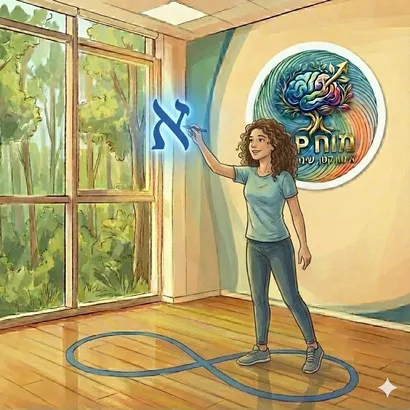
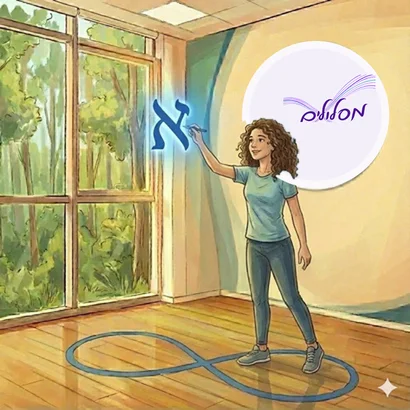
מוח UP נקרא מסלולים: השם, הלוגו של מסלולים, והלוגו על הקיר באיורים
Claude-Session: https://claude.ai/code/session_01BDkU3cUZLBtuGa5TKA5z9B

Changed region(s): [[0.5854, 0.0878, 0.9659, 0.4683]]

diff --git a/public/site-data.js b/public/site-data.js
@@ -18,13 +18,13 @@ window.YS_DEFAULT = {
       id: 'home', home: true, title: 'בית', nav: 'בית', intro: '', items: []
     },
     {
-      id: 'neuro', title: 'תירגול נוירו-קוגניטיבי', nav: 'תירגול נוירו-קוגניטיבי',
-      sub: 'לפרוץ את גבולות היכולת',
+      id: 'neuro', title: 'מסלולים', nav: 'מסלולים',
+      sub: 'תירגול נוירו-קוגניטיבי · לפרוץ את גבולות היכולת',
       summary: 'אימון הרותם את מירב היכולות כדי לעצב ולשכלל מיומנויות קוגניטיביות ופיזיות',
-      icon: { src: '/img/icon-neuro.webp', name: 'מוח UP' },
+      icon: { src: '/img/maslulim.webp', name: 'מסלולים' },
       intro: 'ייעוץ מדעי: פרופסור דני ברנס, חוקר מוח, מומחה בזיכרון ולמידה',
       items: [
-        { id: 'n-what', type: 'text', title: 'מהו אימון נוירו-קוגניטיבי?',
+        { id: 'n-what', type: 'text', title: 'מסלולים: מהו אימון נוירו-קוגניטיבי?',
           body: 'המוח האנושי הוא איבר מופלא בעל יכולת השתנות תמידית – תכונה המכונה "הגמישות המוחית" (Neuroplasticity).\nהתירגול הנוירו-קוגניטיבי הוא שיטת אימון מתקדמת הרותמת את היכולת הזו כדי לבנות מחדש את אופן פעולת המוח. הרעיון המרכזי הוא פשוט אך עוצמתי: המוח הוא כמו שריר שניתן לאמן, לעצב ולשכלל בכל גיל.\n\n**איך זה עובד?**\nהשיטה משלבת תנועה עם גירויים חושיים מגוונים (ראייה, שמיעה, שיווי משקל ועוד) בו-זמנית. שילוב זה מאלץ את המוח "להתעורר" ולהפעיל מספר רב של אזורים ואונות בסנכרון מלא. הפעולה המאומצת הזו יוצרת רשתות עצביות חדשות ומחליפה דפוסים נוירולוגיים ישנים ולא יעילים, בדפוסי חשיבה, התנהגות ופעולה משופרים, מהירים ומדויקים יותר.' },
         { id: 'n-img1', type: 'image', half: true, title: '', body: 'הליכה בצורת 8 כדי להפעיל את מירב אזורי המוח ואיברי הגוף', file: { src: '/img/neuro-eight.webp', name: 'הליכה בצורת 8' } },
         { id: 'n-img2', type: 'image', half: true, title: '', body: 'לימוד כתיבת אותיות במרחב: הצורה נקלטת גם באמצעות המוטוריקה', file: { src: '/img/neuro-letters.webp', name: 'כתיבת אותיות במרחב' } },
@@ -34,8 +34,7 @@ window.YS_DEFAULT = {
           body: 'השיטה נשענת על ידע מדעי עדכני בחקר המוח. זהו תהליך מובנה שמטרתו לשפר תפקודים קריטיים במגוון תחומי חיים:\n- **מיומנויות למידה:** שיפור יכולות קריאה, כתיבה וחשבון, ארגון וסדר ועוד\n- **תפקודים ניהוליים:** פיתוח יכולות ניהול עצמי, ארגון וקבלת החלטות.\n- **ויסות רגשי וחושי:** כלים לוויסות עצמי, רוגע ומיקוד.\n- **מיומנויות קוגניטיביות:** פיתוח יצירתיות, זיכרון ופתרון בעיות.\n- **מיומנויות גופניות:** שיפור ההתמצאות במרחב, קואורדינציה ושיווי משקל.' },
         { id: 'n-why', type: 'text', title: 'למה לתרגל דווקא איתי?',
           body: 'כדי להוביל תהליך של שינוי מוחי והתנהגותי, לא מספיק להכיר את התיאוריה – צריך יד מכוונת ומנוסה. אני מביאה איתי ידע רב-תחומי, ניסיון עשיר והבנה מעמיקה של מערכת העצבים והלמידה. המומחיות שלי היא ביכולת לראות את האדם שמולי, לזהות במדויק את החסמים, ולהתאים עבורו את "חליפת האימון" המדויקת שתביא לפריצת הדרך.\nאני מזמינה אתכם לתהליך מקצועי, באווירה בטוחה ומעצימה, שבו נהפוך יחד את הפוטנציאל למציאות.' },
-        { id: 'n-brainmap', type: 'image', half: true, title: 'מבנה המוח', body: '', file: { src: '/img/neuro-brain-map.webp', name: 'מבנה המוח' } },
-        { id: 'n-sign', type: 'image', half: true, title: 'מוח UP: אימון קטן, שינוי גדול', body: '', file: { src: '/img/neuro-sign.webp', name: 'מוח UP' } },
+        { id: 'n-brainmap', type: 'image', title: 'מבנה המוח', body: '', file: { src: '/img/neuro-brain-map.webp', name: 'מבנה המוח' } },
         { id: 'n-life', type: 'text', title: 'לכל שלב בחיים',
           body: '**למי זה מתאים ולמה?**\nהגמישות המוחית אינה נעצרת בילדות – היא מלווה אותנו לאורך כל חיינו. התירגול הנוירו-קוגניטיבי מציע מענה מדויק לשלבים שונים בחיים, מתוך הבנה שאתגרים נוירולוגיים וקוגניטיביים יכולים להופיע, או להישאר – בכל גיל.' },
         { id: 'n-kids', type: 'image', half: true, title: 'לילדים ונוער (מגיל 5)',
@@ -63,9 +62,9 @@ window.YS_DEFAULT = {
       intro: 'לד״ר שדה ניסיון רב בהנחיית הרצאות, סדנאות והכשרות לאנשי חינוך, הורים, מנהלים וארגונים. תחומי ההרצאה כוללים חוסן חברתי וקהילתי, יצירתיות, פיתוח חשיבה מורכבת, ותהליכי עומק במערכות חינוך וקהילה. ההרצאות משלבות ידע תיאורטי, מחקר עדכני ודוגמאות מהשטח, ומציעות מסגרת חשיבה וכלים יישומיים לעבודה במצבי אי־ודאות, עומס ושחיקה שהם השגרה שלנו בשנים האחרונות.',
       items: [
         { id: 'c-topics', type: 'text', half: true, title: 'תחומי עניין ותוכן שאני עוסקת בהם',
-          body: '- חוסן קהילתי\n- פיתוח חוסן חברתי במערכת החינוך\n- יצירתיות\n- שילוב אומנויות בחינוך\n- למידה בתנועה\n- חינוך לגיל הרך\n- תהליכי שינוי ופיתוח בחינוך\n- תירגול נוירוקוגניטיבי' },
+          body: '- חוסן קהילתי\n- פיתוח חוסן חברתי במערכת החינוך\n- יצירתיות\n- שילוב אומנויות בחינוך\n- למידה בתנועה\n- חינוך לגיל הרך\n- תהליכי שינוי ופיתוח בחינוך\n- מסלולים: תירגול נוירוקוגניטיבי' },
         { id: 'c-invite', type: 'text', half: true, title: 'מוזמנים להזמין',
-          body: '- קורסים וסדנאות בכל אחד מתחומי העניין\n- הנחיית קבוצות בשילוב אמנויות\n- ייעוץ אקדמי למוסדות חינוך ולסטודנטים.יות\n- ייעוץ לקהילות בנושא החוסן\n- ייעוץ למנהלות ולמנהלים במערכת החינוך\n- ליווי בתהליך כתיבת עבודות\n- תירגול נוירוקוגניטיבי: תירגול אישי או בקבוצות קטנות\n\n**052-3969417**' }
+          body: '- קורסים וסדנאות בכל אחד מתחומי העניין\n- הנחיית קבוצות בשילוב אמנויות\n- ייעוץ אקדמי למוסדות חינוך ולסטודנטים.יות\n- ייעוץ לקהילות בנושא החוסן\n- ייעוץ למנהלות ולמנהלים במערכת החינוך\n- ליווי בתהליך כתיבת עבודות\n- מסלולים, תירגול נוירוקוגניטיבי: תירגול אישי או בקבוצות קטנות\n\n**052-3969417**' }
       ]
     },
     {
@@ -86,7 +85,7 @@ window.YS_DEFAULT = {
       id: 'about', title: 'אודותי', nav: 'אודות',
       intro: '**ד״ר יעל שדה** היא אשת חינוך, חוקרת, יועצת ומנחה תהליכים, בעלת ניסיון של למעלה מ־30 שנה בעבודה עם ילדים, הורים, אנשי חינוך, קהילות וארגונים. עיסוקה משלב ידע אקדמי ומחקרי עם ניסיון יישומי רחב, וראייה בין־תחומית. עבודתה מאופיינת בעומק מקצועי, חשיבה מערכתית, ויכולת גבוהה ללוות תהליכים מורכבים באופן מדויק, קשוב ואחראי.\n\n**השכלה:** תואר ראשון ושני בחינוך יצירתי; תואר שלישי Ph.D בסוציולוגיה: חוסן חברתי',
       items: [
-        { id: 'a-neuro', type: 'text', half: true, title: 'תירגול נוירו־קוגניטיבי (אימון מוח)',
+        { id: 'a-neuro', type: 'text', half: true, title: 'מסלולים: תירגול נוירו־קוגניטיבי (אימון מוח)',
           body: 'ד״ר שדה עוסקת בתרגול נוירו־קוגניטיבי כחלק מתהליך כולל של חיזוק תפקודים קוגניטיביים ורגשיים, כגון קשב, זיכרון, ויסות עצמי, גמישות מחשבתית וארגון. התרגול מותאם אישית ומתאים לכולם: ילדים מגיל 5 ועד הגיל השלישי. הגישה מבוססת על התכונה של המוח להיות גמיש ועל יכולת הלמידה הטבעית הקיימת בנו מהלידה ועד אחרון ימינו. התרגול משולב בתנועות הגורמות להפעלת מירב חלקי המוח במטרה ליצור דפוסי חשיבה ופעולה חדשים ומשופרים. בתירגול משולב הידע הרב של ד״ר שדה בתחום החינוך: למידה, יצירתיות ומוטיבציה. זהו תהליך הדרגתי, מבוסס מחקר וניסיון, ללא הבטחות פשטניות, ומתוך ראייה של הילד כסובייקט מתפתח בעל חוזקות ויכולות.' },
         { id: 'a-talks', type: 'text', half: true, title: 'הרצאות וסדנאות: חוסן חברתי, יצירתיות וחינוך',
           body: 'לד״ר שדה ניסיון רב בהנחיית הרצאות, סדנאות והכשרות לאנשי חינוך, הורים, מנהלים וארגונים. תחומי ההרצאה כוללים חוסן חברתי וקהילתי, יצירתיות, פיתוח חשיבה מורכבת, ותהליכי עומק במערכות חינוך וקהילה. ההרצאות משלבות ידע תיאורטי, מחקר עדכני ודוגמאות מהשטח, ומציעות מסגרת חשיבה וכלים יישומיים לעבודה במצבי אי־ודאות, עומס ושחיקה שהם השגרה שלנו בשנים האחרונות.' },

diff --git a/public/site.css b/public/site.css
@@ -70,7 +70,7 @@ main{position:relative;z-index:0;overflow-x:clip;padding:40px 24px 64px;min-heig
 .page-head{display:flex;align-items:center;gap:18px;margin-bottom:26px}
 .page-head h1{margin:0}
 .page-head .sub{margin:4px 0 0;font-size:1.2rem;color:var(--muted)}
-.head-icon{width:96px;height:96px;flex:none;object-fit:contain}
+.head-icon{height:96px;width:auto;max-width:220px;flex:none;object-fit:contain}
 .head-photo{width:96px;height:96px;border-radius:50%;flex:none;box-shadow:0 0 0 4px rgba(255,255,255,.8)}
 .head-photo{object-fit:cover}
 
@@ -144,7 +144,8 @@ footer.foot .fill{flex:1}
   .item.half{grid-column:1/-1}
   figure.item.long:not(.half){display:block}
   .items{row-gap:34px}
-  .head-icon,.head-photo{width:64px;height:64px}
+  .head-icon{height:64px;width:auto;max-width:150px}
+  .head-photo{width:64px;height:64px}
   .hero .logo{width:130px}
   .orb{width:150px;height:150px}
   .rich p,.rich li{text-align:start}
